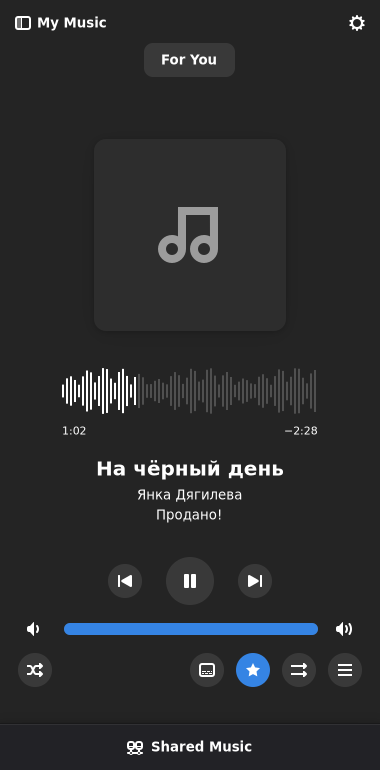
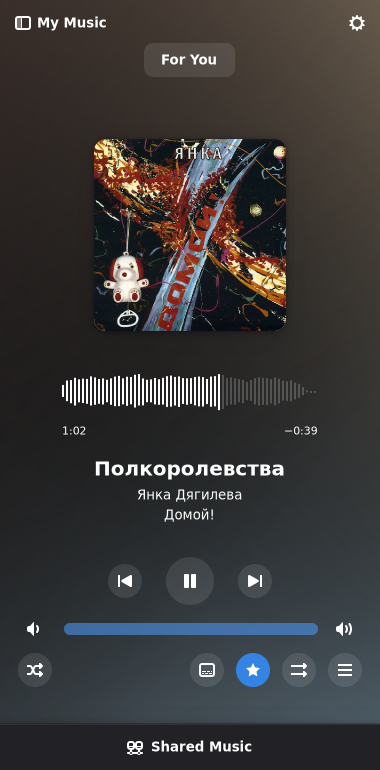
Show local music and album artwork in README screenshots

diff --git a/src/window/tests.rs b/src/window/tests.rs
@@ -1301,8 +1301,8 @@ fn progressive_playlist_and_shuffle_start_at_top() {
 }
 
 /// Reproducible README images and the narrow import-dialog regression.
-/// All catalog entries and waveform samples are presentation fixtures, not
-/// downloaded recordings or evidence of live peer availability.
+/// Optional local recordings supply artwork and cached waveforms. Search and
+/// reachability remain presentation fixtures, not evidence of live peers.
 #[test]
 #[ignore = "requires a GTK display and isolated XDG directories"]
 fn documentation_screenshots_and_import_layout() {
@@ -1356,7 +1356,7 @@ fn documentation_screenshots_and_import_layout() {
         favorite: false,
         sources: 1,
     };
-    let tracks = [
+    let mut tracks = vec![
         make_track(1, "Numb", "Linkin Park", "Meteora"),
         make_track(2, "На чёрный день", "Янка Дягилева", "Продано!"),
         make_track(3, "Demo recording", "Великие Октябри", "Demo collection"),
@@ -1368,15 +1368,42 @@ fn documentation_screenshots_and_import_layout() {
             "Всё идёт по плану",
         ),
     ];
-    for track in &tracks {
+    #[derive(serde::Deserialize)]
+    struct LocalCapture {
+        track: Track,
+        audio: std::path::PathBuf,
+        cover: std::path::PathBuf,
+        peaks: Option<Vec<(f64, f64)>>,
+    }
+    let catalog: Vec<LocalCapture> = std::env::var_os("HOPEA_README_CATALOG")
+        .map(|path| serde_json::from_slice(&std::fs::read(path).unwrap()).unwrap())
+        .unwrap_or_default();
+    if !catalog.is_empty() {
+        assert!(catalog.len() >= 5 && catalog.len() < 100);
+        tracks = catalog.iter().map(|item| item.track.clone()).collect();
+        for item in &catalog {
+            let bytes = glib::Bytes::from_owned(std::fs::read(&item.cover).unwrap());
+            crate::library::thumbnails::test_cache_cover(item.track.id, &bytes);
+        }
+        player.test_audio_sink(
+            &gst::ElementFactory::make("fakesink")
+                .property("sync", true)
+                .build()
+                .unwrap(),
+        );
+    }
+    for (index, track) in tracks.iter().take(5).enumerate() {
         let mut track = track.clone();
         track.local = true;
         track.favorite = true;
-        let song = Song::from_remote(
-            &track,
-            &format!("file:///nonexistent/demo-{}.flac", track.id),
-            None,
-        );
+        let cover = catalog
+            .get(index)
+            .map(|item| glib::Bytes::from_owned(std::fs::read(&item.cover).unwrap()));
+        let uri = catalog
+            .get(index)
+            .map(|item| gio::File::for_path(&item.audio).uri().to_string())
+            .unwrap_or_else(|| format!("file:///nonexistent/demo-{}.flac", track.id));
+        let song = Song::from_remote(&track, &uri, cover.as_ref());
         player.queue().add_song(&song);
     }
     let output = std::env::var_os("HOPEA_README_SCREENSHOTS").map(std::path::PathBuf::from);
@@ -1401,32 +1428,60 @@ fn documentation_screenshots_and_import_layout() {
                 .unwrap();
         }
     };
+    if !catalog.is_empty() {
+        player.skip_to(0);
+        player.play();
+        wait();
+        player.seek_position_rel(62_000.0 / tracks[0].duration_ms as f64);
+        player.pause();
+        wait();
+    }
     player.state().set_current_song(player.queue().song_at(0));
     player.state().set_playback_state(&PlaybackState::Playing);
     player.state().set_position(62);
-    // A stable synthetic envelope illustrates the waveform without copyrighted audio.
+    // Use cached samples for supplied recordings; synthetic data is only for tests.
     window.unbind_waveform();
     imp.waveform_view.set_peaks(Some(
-        (0..200)
-            .map(|i| {
-                let amplitude = 0.15
-                    + (i as f64 * 0.23).sin().abs() * (0.3 + (i as f64 * 0.043).sin().abs() * 0.55);
-                (amplitude, amplitude * 0.8)
-            })
-            .collect(),
+        catalog
+            .first()
+            .and_then(|item| item.peaks.clone())
+            .unwrap_or_else(|| {
+                (0..200)
+                    .map(|i| {
+                        let amplitude = 0.15
+                            + (i as f64 * 0.23).sin().abs()
+                                * (0.3 + (i as f64 * 0.043).sin().abs() * 0.55);
+                        (amplitude, amplitude * 0.8)
+                    })
+                    .collect()
+            }),
     ));
-    imp.waveform_view.set_position(62.0 / 210.0);
+    imp.waveform_view
+        .set_position(62_000.0 / tracks[0].duration_ms as f64);
     window.set_default_size(1100, 760);
     imp.main_stack.set_visible_child_name("main-view");
     imp.library_split.set_show_sidebar(false);
     imp.split_view.set_show_sidebar(true);
     GtkWindowExt::present(&window);
     capture("desktop-playback.png");
-    let results = [
+    let mut results = vec![
         tracks[0].clone(),
         make_track(6, "Somewhere I Belong", "Linkin Park", "Meteora"),
         make_track(7, "In the End", "Linkin Park", "Hybrid Theory"),
     ];
+    if !catalog.is_empty() {
+        results = tracks
+            .iter()
+            .filter(|track| {
+                track
+                    .artist
+                    .as_deref()
+                    .unwrap_or_default()
+                    .eq_ignore_ascii_case("Linkin Park")
+            })
+            .cloned()
+            .collect();
+    }
     imp.split_view.set_show_sidebar(false);
     imp.library_split.set_show_sidebar(true);
     panel.test_documentation_search("Linkin Park", &results);
@@ -1447,20 +1502,41 @@ fn documentation_screenshots_and_import_layout() {
     wait();
     imp.split_view.set_show_sidebar(false);
     imp.library_sheet.set_open(false);
+    if !catalog.is_empty() {
+        player.skip_to(1);
+        wait();
+        player.seek_position_rel(62_000.0 / tracks[1].duration_ms as f64);
+        player.pause();
+        wait();
+        imp.waveform_view.set_peaks(catalog[1].peaks.clone());
+        imp.waveform_view
+            .set_position(62_000.0 / tracks[1].duration_ms as f64);
+    }
     player.state().set_current_song(player.queue().song_at(1));
     player.state().set_playback_state(&PlaybackState::Playing);
     player.state().set_position(62);
     capture("mobile-playback.png");
-    panel.test_documentation_search(
-        "Гражданская Оборона",
-        &[
+    let mobile_results = if catalog.is_empty() {
+        vec![
             tracks[4].clone(),
             make_track(8, "Моя оборона", "Гражданская Оборона", "Прыг-скок"),
-        ],
-    );
+        ]
+    } else {
+        tracks
+            .iter()
+            .filter(|track| {
+                track.artist.as_deref().unwrap_or_default().to_lowercase() == "гражданская оборона"
+            })
+            .cloned()
+            .collect()
+    };
+    panel.test_documentation_search("Гражданская Оборона", &mobile_results);
     imp.library_sheet.set_open(true);
     capture("mobile-search.png");
     imp.library_sheet.set_open(false);
+    if !catalog.is_empty() {
+        player.stop();
+    }
     player.state().set_playback_state(&PlaybackState::Stopped);
     let task = glib::spawn_future_local(clone!(
         #[strong]

diff --git a/src/library/thumbnails.rs b/src/library/thumbnails.rs
@@ -38,6 +38,17 @@ pub fn cached(id: i64) -> Option<gdk::Texture> {
     CACHE.with(|c| c.borrow().textures.get(&id).cloned())
 }
 
+/// Documentation captures replay a local catalog without a peer connection.
+#[cfg(test)]
+pub(crate) fn test_cache_cover(id: i64, bytes: &gtk::glib::Bytes) {
+    let texture = gdk::Texture::from_bytes(bytes).expect("valid local cover");
+    CACHE.with(|cache| {
+        let mut cache = cache.borrow_mut();
+        assert!(cache.textures.len() < MAX_CACHED);
+        cache.textures.insert(id, texture);
+    });
+}
+
 pub fn invalidate(id: i64) {
     CACHE.with(|cache| {
         let mut cache = cache.borrow_mut();

diff --git a/docs/SCREENSHOTS.md b/docs/SCREENSHOTS.md
@@ -1,12 +1,15 @@
 # Documentation screenshots
 
 The README images are rendered from Hopea's actual GTK widgets, models and
-factories. They use an isolated demonstration catalog featuring Linkin Park,
+factories. They use isolated copies of downloaded recordings featuring Linkin Park,
 Янка Дягилева, Великие Октябри, Егор Летов and Гражданская Оборона.
-Playback position, waveform samples, track durations and network status are
-simulated. No music recordings, service credentials or artist cover artwork are
-included, and no peers are contacted. These images demonstrate the interface,
-not availability of these recordings on the network.
+Artwork, metadata and cached waveform samples come from the local library.
+Playback is decoded silently and positioned for capture. Search results replay
+local catalog entries, and the online status is simulated; no peers are contacted.
+These images demonstrate the interface, not availability on the network.
+Audio files, local paths and service credentials are not committed. Album artwork
+visible in the screenshots belongs to its respective rights holders; Hopea's
+code license does not license that artwork.
 
 The desktop layout is captured at 1100 × 760 and the mobile layout at 390 × 780.
 Mobile captures use the adaptive GTK layout and Android panel policy on an X11
@@ -26,16 +29,26 @@ nix-shell --expr '
       (builtins.fromJSON (builtins.readFile ./flake.lock)).nodes.nixpkgs.locked) {};
     shell = import ./nix/shell.nix { inherit pkgs; };
   in shell.overrideAttrs (old: {
-    nativeBuildInputs = old.nativeBuildInputs ++ [ pkgs.xorg.xorgserver ];
+    nativeBuildInputs = old.nativeBuildInputs ++ [ pkgs.xorg-server ];
   })
-' --run 'bash tests/capture_screenshots.sh'
+' --run 'HOPEA_README_CATALOG=/tmp/capture/catalog.json bash tests/capture_screenshots.sh'
 ```
 
 On another development system with Xvfb available, run
-`bash tests/capture_screenshots.sh`. `HOPEA_XVFB` can select its executable.
+`HOPEA_README_CATALOG=/tmp/capture/catalog.json bash tests/capture_screenshots.sh`.
+`HOPEA_XVFB` can select its executable.
 The script starts a private display and creates temporary XDG directories and
 memory-backed preferences. It does not attach to or restart a running Hopea.
 Images are written to `docs/screenshots/`.
+
+The local catalog is a JSON array of objects with `track` (the common API's
+`Track` representation), `audio` and `cover` (absolute paths to temporary copies),
+and `peaks` (cached stereo sample pairs). Its first five records populate the
+playlist in the artist order above; additional Linkin Park and Гражданская
+Оборона entries populate search results. At least the first five audio files
+must exist. Keep this catalog outside the repository. The capture script requires
+it to avoid replacing the documentation images with the regression test's
+artwork-free fallback data.
 
 The same fixture checks that the import chooser opens and cancels cleanly,
 that its description uses the card width with Russian text at 360, 390 and

diff --git a/README.md b/README.md
@@ -25,7 +25,7 @@ Built with Rust, GTK 4 and libadwaita, based on **Amberol**.
   <img src="docs/screenshots/mobile-search.png" alt="Mobile search for Гражданская Оборона" width="280">
 </p>
 
-The English interface with a demo library and simulated playback/network state.
+The English interface with downloaded tracks and their album artwork.
 Mobile images show the adaptive layout. [Screenshot details](docs/SCREENSHOTS.md).
 
 ## Get Hopea
